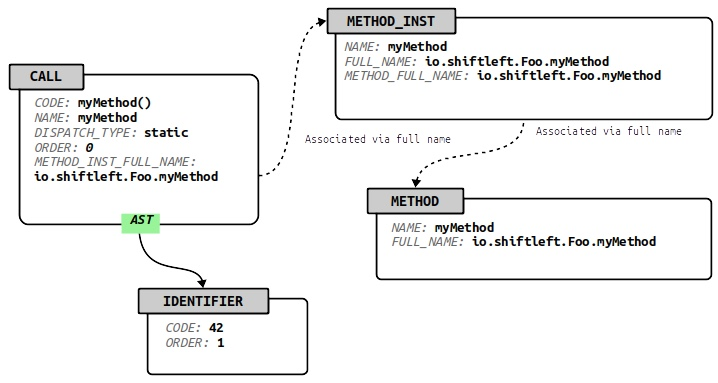
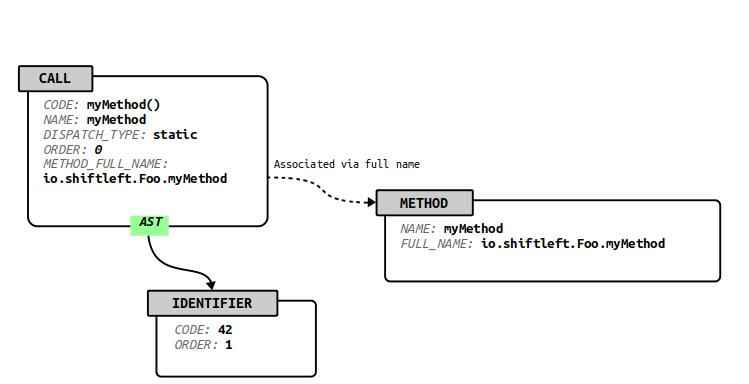
Update docs to removal of METHOD_INST node. (#153)

diff --git a/using-ocular/about/cpg-deep-dive.md b/using-ocular/about/cpg-deep-dive.md
@@ -48,14 +48,14 @@ The file contains a JSON object with the following members:
 
 * `nodeTypes/edgeTypes`. List of all node/edge types (i.e. edge lables in the original property graph definition), where each node/edge type is given by an object that specifies an ID, name,keys, comment, and, for node types (each note is required to have a mandatory note type, represented by a node attribute), valid outgoing edge types.
 
-There are a total of 20 node types across five categories:
+There are a total of 19 node types across five categories:
 
 Category          | Names
 ------------------| -------------------------------------------------------------------------------------------------
 Program structure | FILE, NAMESPACE_BLOCK
 Type declarations | TYPE_DECL, TYPE_PARAMETER, MEMBER, TYPE, TYPE_ARGUMENT
 Method header     | METHOD, METHOD_PARAMETER_IN, METHOD_RETURN, LOCAL, BLOCK, MODIFIER
-Method body       | LITERAL, IDENTIFIER, CALL, RETURN, METHOD_INST, METHOD_REF
+Method body       | LITERAL, IDENTIFIER, CALL, RETURN, METHOD_REF
 Meta data         | META_DATA
 
 
@@ -179,7 +179,7 @@ which represents the method body.
 
 #### Method Body
 
-Node types: LITERAL, IDENTIFIER, CALL, RETURN, METHOD_INST, METHOD_REF
+Node types: LITERAL, IDENTIFIER, CALL, RETURN, METHOD_REF
 
 Method bodies contain the method implementation, given by the
 operations the method carries out. Method bodies are represented as
@@ -195,12 +195,7 @@ designated call node (type CALL). Arguments are either identifiers
 or method references (type METHOD_REF). Each argument has an argument
 index property (type ARGUMENT_INDEX) to indicate with which parameter it is
 associated. Calls are connected to their arguments through outgoing
-AST edges, and are associated with their corresponding method-instance
-(type METHOD_INST) via their METHOD_INST_FULL_NAME property.
-Method-instance nodes represent concrete instantiations of method
-declarations, that is, method declarations along with type parameters.
-Method nodes are connected to type arguments (type TYPE_ARGUMENT) via
-AST edges, and are associated with their corresponding method via their
+AST edges, and are associated to the called method via their
 METHOD_FULL_NAME property.
 
 ![Call Site](img/call-site.jpg)
